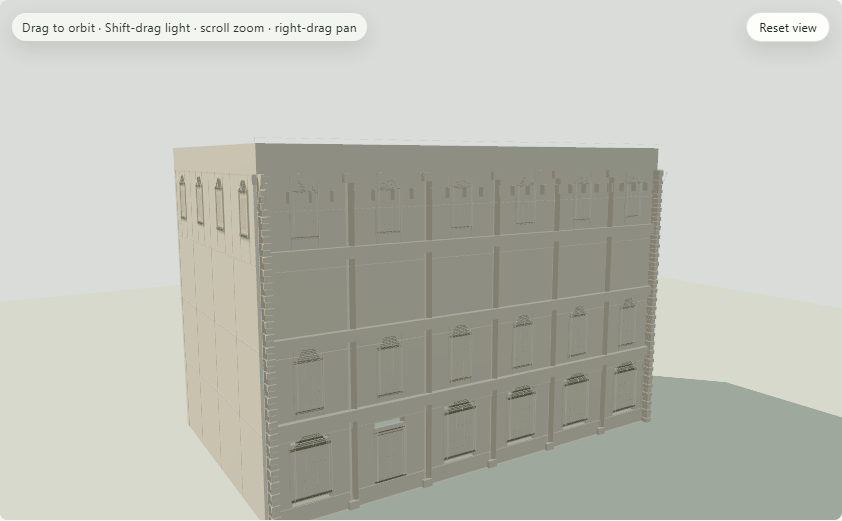
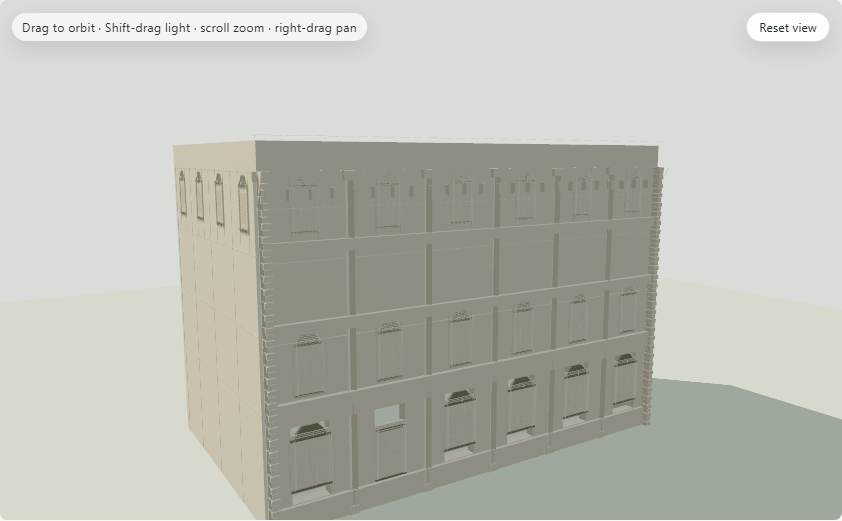
Add photo-driven fidelity plan and V1 commercial base.
Document packets V1–V6 for period clay silhouette work. Raise ground floor to 5.6 m vs ~3.5 m body floors, derive groundFloorRatio, grow storefront glazing, and project bulkhead/lintel/fascia outward so the base band reads at default camera.

diff --git a/src/features/building-family/compiler/buildingCompiler.ts b/src/features/building-family/compiler/buildingCompiler.ts
@@ -602,14 +602,16 @@ function createStorefrontHierarchyMeshPlan(
     const [ox, , oz] = scope.originM;
     const sx = scope.sizeM[0];
     const bayCenterX = ox + sx / 2;
-    // Slightly proud of structural wall face.
-    const zProud = oz - 0.02;
-    const proudDepth = Math.max(0.08, wallDepth * 0.45);
+    // Front outer face is oz; project hierarchy outward (−Z) so clay reads a proud base.
+    const proudDepth = Math.max(0.12, wallDepth * 0.55);
+    const bulkheadZ = oz - proudDepth * 0.55;
+    const lintelZ = oz - proudDepth * 0.65;
+    const fasciaZ = oz - proudDepth * 0.78;
 
     primitives.push(
       buildBoxPrimitive({
-        center: [bayCenterX, sf.bulkheadCenterYM, zProud + proudDepth * 0.35],
-        size: [sx * 0.98, sf.bulkheadHeightM * 0.92, proudDepth]
+        center: [bayCenterX, sf.bulkheadCenterYM, bulkheadZ],
+        size: [sx * 0.98, sf.bulkheadHeightM * 0.95, proudDepth]
       })
     );
     semanticEntries.push({
@@ -621,8 +623,8 @@ function createStorefrontHierarchyMeshPlan(
 
     primitives.push(
       buildBoxPrimitive({
-        center: [bayCenterX, sf.lintelCenterYM, zProud + proudDepth * 0.4],
-        size: [sx * 0.99, sf.lintelHeightM, proudDepth * 1.1]
+        center: [bayCenterX, sf.lintelCenterYM, lintelZ],
+        size: [sx * 0.99, sf.lintelHeightM * 1.05, proudDepth * 1.15]
       })
     );
     semanticEntries.push({
@@ -634,8 +636,8 @@ function createStorefrontHierarchyMeshPlan(
 
     primitives.push(
       buildBoxPrimitive({
-        center: [bayCenterX, sf.lintelCenterYM + sf.lintelHeightM * 0.35, zProud + proudDepth * 0.55],
-        size: [sx + 0.04, sf.lintelHeightM * 0.35, proudDepth * 0.7]
+        center: [bayCenterX, sf.lintelCenterYM + sf.lintelHeightM * 0.4, fasciaZ],
+        size: [sx + 0.06, sf.lintelHeightM * 0.42, proudDepth * 0.85]
       })
     );
     semanticEntries.push({

diff --git a/src/features/building-family/compiler/facadeWallSubdivision.ts b/src/features/building-family/compiler/facadeWallSubdivision.ts
@@ -98,7 +98,8 @@ export function buildFacadeBayScopes(input: SubdivideFacadeWallsInput): FacadeBa
     const floorHeight = spec.massing.floorHeightsM[floor] ?? 3;
     const y0 = floorBaseY(spec, floor);
     const zone: "ground" | "body" = floor === 0 ? "ground" : "body";
-    const depth = wallDepthM + (floor === 0 ? Math.min(0.16, wallDepthM * 0.5) : 0);
+    // Ground wall slightly proud so commercial base mass reads thicker than body (V1).
+    const depth = wallDepthM + (floor === 0 ? Math.min(0.22, wallDepthM * 0.65) : 0);
 
     for (let bay = 0; bay < spec.facade.frontBayCount; bay += 1) {
       const x0 = -spec.massing.widthM / 2 + frontBayWidth * bay;
@@ -108,8 +109,11 @@ export function buildFacadeBayScopes(input: SubdivideFacadeWallsInput): FacadeBa
             ? -spec.massing.depthM / 2
             : spec.massing.depthM / 2 - depth;
         const openingSpec = openingMap.get(openingKey(facade, floor, bay));
-        const defaultOpenW = Math.min(frontBayWidth * 0.62, 1.6);
-        const defaultOpenH = Math.min(floorHeight * (zone === "ground" ? 0.58 : 0.48), 2.6);
+        const defaultOpenW = Math.min(frontBayWidth * (zone === "ground" ? 0.72 : 0.62), zone === "ground" ? 2.2 : 1.6);
+        const defaultOpenH = Math.min(
+          floorHeight * (zone === "ground" ? 0.62 : 0.48),
+          zone === "ground" ? 3.4 : 2.6
+        );
         const hasDefaultOpening =
           !strictOpenings &&
           (defaultOpeningMode === "front-only"

diff --git a/src/features/building-family/core/specNormalizer.ts b/src/features/building-family/core/specNormalizer.ts
@@ -155,6 +155,17 @@ export async function normalizeBuildingSpec(
     stylePack.massing.floorHeightM.ground,
     ...Array.from({ length: floorCount - 1 }, () => typicalFloorHeight)
   ];
+  const totalFloorHeightM = floorHeightsM.reduce((sum, height) => sum + height, 0);
+  // Derived from actual floor stack so ratio matches the taller commercial base (V1).
+  const groundFloorRatio = Number(
+    clampWithDiagnostic(
+      floorHeightsM[0]! / Math.max(0.01, totalFloorHeightM),
+      stylePack.facade.groundFloorRatio.min,
+      stylePack.facade.groundFloorRatio.max,
+      "derived.groundFloorRatio",
+      diagnostics
+    ).toFixed(4)
+  );
   const parapetHeightM = Number(
     (
       stylePack.massing.parapetHeightM.min +
@@ -218,7 +229,7 @@ export async function normalizeBuildingSpec(
     facade: {
       frontBayCount,
       sideBaySpacingM: stylePack.facade.sideBaySpacingM.min,
-      groundFloorRatio: stylePack.facade.groundFloorRatio.min,
+      groundFloorRatio,
       corniceHeightM: stylePack.facade.corniceHeightM.max,
       symmetry: clampWithDiagnostic(
         intent.requested.symmetry ?? stylePack.defaults.symmetry,

diff --git a/src/features/building-family/compiler/storefrontScopeSplit.ts b/src/features/building-family/compiler/storefrontScopeSplit.ts
@@ -24,16 +24,17 @@ export interface StorefrontVerticalSplit {
 
 /**
  * Split a ground floor band into bulkhead / glazing / lintel.
- * Ratios are stable; heights scale with floorHeightM so hash/layout track massing.
+ * Ratios track floorHeightM so a taller commercial base (V1) grows glazing, not just bulkhead.
  */
 export function splitGroundStorefrontVertical(
   floorBaseYM: number,
   floorHeightM: number
 ): StorefrontVerticalSplit {
   const h = Math.max(2.4, floorHeightM);
-  const bulkheadHeightM = Math.min(1.05, Math.max(0.55, h * 0.2));
-  const lintelHeightM = Math.min(0.42, Math.max(0.22, h * 0.09));
-  const glazingHeightM = Math.max(1.2, h - bulkheadHeightM - lintelHeightM);
+  // Tall ground (period commercial): solid base, large glass, thin lintel/fascia.
+  const bulkheadHeightM = Math.min(1.35, Math.max(0.7, h * 0.22));
+  const lintelHeightM = Math.min(0.55, Math.max(0.28, h * 0.1));
+  const glazingHeightM = Math.max(1.6, h - bulkheadHeightM - lintelHeightM);
   const glazingBottomYM = floorBaseYM + bulkheadHeightM;
   const glazingTopYM = glazingBottomYM + glazingHeightM;
   return {

diff --git a/src/features/building-family/tests/specNormalizer.test.ts b/src/features/building-family/tests/specNormalizer.test.ts
@@ -30,6 +30,17 @@ describe("normalizeBuildingSpec", () => {
     expect(first.spec.diagnostics).toHaveLength(0);
   });
 
+  it("makes ground floor clearly taller than typical floors for commercial base (V1)", async () => {
+    const { spec } = await normalizeBuildingSpec(baseIntent, stylePack);
+    const ground = spec.massing.floorHeightsM[0]!;
+    const typical = spec.massing.floorHeightsM[1]!;
+    expect(ground).toBeGreaterThanOrEqual(5.2);
+    expect(typical).toBeLessThanOrEqual(3.8);
+    expect(ground / typical).toBeGreaterThanOrEqual(1.45);
+    const total = spec.massing.floorHeightsM.reduce((sum, h) => sum + h, 0);
+    expect(spec.facade.groundFloorRatio).toBeCloseTo(ground / total, 3);
+  });
+
   it("keeps family-scoped fields stable when only the building seed changes", async () => {
     const first = await normalizeBuildingSpec(baseIntent, stylePack);
     const second = await normalizeBuildingSpec(

diff --git a/src/features/building-family/tests/storefrontScopeSplit.test.ts b/src/features/building-family/tests/storefrontScopeSplit.test.ts
@@ -53,6 +53,14 @@ describe("storefrontScopeSplit", () => {
     expect(split.bulkheadHeightM + split.glazingHeightM + split.lintelHeightM).toBeCloseTo(4.2, 5);
   });
 
+  it("grows glazing on a tall commercial base so the ground band dominates (V1)", () => {
+    const tall = splitGroundStorefrontVertical(0, 5.6);
+    const short = splitGroundStorefrontVertical(0, 3.6);
+    expect(tall.glazingHeightM).toBeGreaterThan(short.glazingHeightM + 0.8);
+    expect(tall.glazingHeightM).toBeGreaterThan(tall.bulkheadHeightM * 2);
+    expect(tall.bulkheadHeightM + tall.glazingHeightM + tall.lintelHeightM).toBeCloseTo(5.6, 5);
+  });
+
   it("clamps door/window openings into the glazing band", () => {
     const split = splitGroundStorefrontVertical(0, 4.2);
     const door = clampOpeningToGlazingBand({ heightM: 3.5, centerYM: 2 }, split, "door");

diff --git a/src/features/building-family/compiler/profiledTrimGeometry.ts b/src/features/building-family/compiler/profiledTrimGeometry.ts
@@ -209,7 +209,9 @@ export function buildVerticalPilasterPrimitives(
 
 /** Continuous ground-floor water-table / plinth along front facade. */
 export function buildBasePlinthPrimitives(spec: BuildingFamilySpec): PrimitiveGeometry[] {
-  const height = Math.min(0.7, (spec.massing.floorHeightsM[0] ?? 4) * 0.16);
+  // Scale with commercial base so plinth reads as part of the tall ground band (V1).
+  const groundH = spec.massing.floorHeightsM[0] ?? 4;
+  const height = Math.min(0.95, Math.max(0.55, groundH * 0.14));
   const profile = densifyProfile(scaleProfileToHeight(late19cBasePlinthProfile, height), 2);
   const frontZ = frontFacadeExteriorZM(spec);
   const center: Vec3 = [0, height / 2, frontZ];

diff --git a/docs/plans/photo-driven-visual-fidelity.md b/docs/plans/photo-driven-visual-fidelity.md
@@ -1,0 +1,142 @@
+# Photo-Driven Visual Fidelity Packets
+
+**Status:** active — V1 (commercial base) landed 2026-07-13; next V2  
+**Date:** 2026-07-13  
+**Parent tracks:** G1–G8 geometry quality (exited), kit-grammar roadmap, Period Ref Lab  
+**Primary refs:** `docs/ref/` + `docs/research/period-reference/` via `#room=periodRef`  
+**Delivery mode:** one **packet** = one reviewable PR-sized milestone with a **visible clay delta** against a named photo ref.
+
+---
+
+## 1. Honest goal
+
+Move kit-mode Assembly Hall output from **readable modular box** toward **period-believable commercial/apartment silhouette in clay**, judged by side-by-side photo compare—not by IR checklist alone.
+
+This is **not** photoreal materials, photo→mesh, or Blender GN parity. Textured brick is a later packet after clay silhouette sells.
+
+**Exit for this plan (V6):** On default demo seed, clay 3/4 front + Shift-raking light, a non-author can name ground / body / cornice bands and punched openings without prompting—and Marx / Vanderbilt comparison notes move several rows from partial toward pass.
+
+---
+
+## 2. What already landed (do not re-do)
+
+| Item | Role |
+|---|---|
+| G1–G8 | Split plan, storefront scopes, expanders, clay gate |
+| Period Ref Lab | Catalog, `/period-ref` serve, rubric, comparison notes |
+| P0 | Front trim projects outward (cornice/belt/quoin) |
+| P1 | Opening instances oriented to facade normals; throat into wall |
+| Visual QA packet | Automated IR evidence (floor, not ceiling) |
+
+**Lesson:** Orientation/correctness packets without **massing amplitude** feel the same in the product. Prefer packets that change silhouette in 10 seconds.
+
+---
+
+## 3. Judging protocol (every packet)
+
+1. **Primary ref** named in the packet (default: Marx Grocery or Vanderbilt).  
+2. Kit mode, clay, default seeds unless packet says otherwise.  
+3. Capture: `node scripts/capture-period-compare.mjs` (or Assembly Hall screenshot).  
+4. Shift-rake light once; if the claim needs forensics to see, the packet is too small.  
+5. Update comparison notes under `docs/ref/comparisons/…`.  
+6. Automated tests cover pure geometry/spec; photos stay human-scored.
+
+---
+
+## 4. Packet sequence
+
+| ID | Packet | Primary ref | Visible exit (clay) | Depends |
+|---|---|---|---|---|
+| **V1** | **Commercial base band** | Vanderbilt, Marx | Ground floor height clearly > upper floors; bulkhead/glazing/lintel read as a base system | P0–P1 |
+| **V2** | **Cornice crown weight** | Marx, Columbus cornice detail | Skyline sells multi-layer overhang without zoom | V1 |
+| **V3** | **Punched opening amplitude** | Marx lintels, Columbus | Throat dark under rake; lintel hood as shelf | V1 |
+| **V4** | **Horizontal body hierarchy** | Marx, Boykin | Clear belt/spandrel rhythm between base and cornice | V1–V3 |
+| **V5** | **Material scale pass** | Any brick ref | Brick/tile scale coherent at default camera (textured) | V4 |
+| **V6** | **Evidence close-out** | All primary | Period notes re-scored; Visual QA known-gaps updated; kit roadmap unblocked for layout | V2–V5 |
+
+Optional later (not this plan): corner bays/oriels, arched ground arcade family, multi-lot street wall (Phase F).
+
+---
+
+## 5. Packet details
+
+### V1 — Commercial base band (this milestone)
+
+**Gap:** Ground ≈ upper floor height; storefront hierarchy exists but does not dominate silhouette.  
+**Levers:**
+
+- Style-pack ground floor height vs typical (target ~1.45–1.6×).  
+- `groundFloorRatio` derived / consistent with heights.  
+- Storefront vertical split ratios for tall ground (bulkhead + tall glazing + lintel).  
+- Proud storefront hierarchy on exterior face (same outward convention as P0).  
+- Plinth / ground wall depth already slightly thicker—keep, don’t replace structure with mesh kits.
+
+**Out of scope:** New preassembled storefront meshes; WFC; remote materials.
+
+**Validation:**
+
+```powershell
+npm.cmd run test -- storefrontScopeSplit specNormalizer facadeSplitPlan buildingCompiler
+npm.cmd run typecheck
+```
+
+Clay: ground band visibly taller than floor above at default camera (no zoom).
+
+### V2 — Cornice crown weight
+
+**Gap:** P0 made cornice present; amplitude still light vs Marx.  
+**Levers:** Profile `d` scale, corniceHeightM, bracket size—not new mesh libraries.  
+**Exit:** 3/4 clay skyline reads “has a cornice” before openings are inspected.
+
+### V3 — Punched opening amplitude
+
+**Gap:** P1 fixed orientation; depth still shallow vs brick refs.  
+**Levers:** Pocket depth fractions, frame recess, hood projection; keep slot binding 1:1.  
+**Exit:** Raking light shows interior throat without hunting.
+
+### V4 — Horizontal body hierarchy
+
+**Gap:** Floors exist; body still stamp-like.  
+**Levers:** Belt projection, spandrel pride, optional lintel-at-opening-head strips.  
+**Exit:** Three horizontal shadow systems: base top, mid belts, cornice.
+
+### V5 — Material scale
+
+**Gap:** Textured mode not period-checked.  
+**Levers:** Art-kit metersPerTile, atlas roles—not structure regen.  
+**Exit:** Brick course scale vs human-height openings feels building-sized.
+
+### V6 — Evidence close-out
+
+Re-score Marx + Vanderbilt packets; archive captures; link from kit-grammar Phase C visual QA gate; park this plan as exited.
+
+---
+
+## 6. Mapping to parent roadmaps
+
+| Parent | Relation |
+|---|---|
+| G8 clay gate | Floor for “composed”; V packets raise period likeness |
+| Kit Phase C4 Visual QA | Continues; period notes are complementary evidence |
+| M12 WFC | Still blocked until silhouette packets V1–V3 land (layout on weak mass is waste) |
+| UTDG / materials | V5 is the consumer-facing gate; structure stays forbidden |
+
+---
+
+## 7. Status log
+
+| Date | Event |
+|---|---|
+| 2026-07-12 | Period Ref Lab + first-pass FINDINGS (P0–P4 backlog) |
+| 2026-07-13 | P0 outward trim, P1 opening orientation |
+| 2026-07-13 | This plan; **V1 commercial base** landed (5.6 m ground vs ~3.5 m body) |
+
+---
+
+## 8. Non-goals
+
+- Photoreal rendering path  
+- Photo import / reconstruction  
+- Preassembled facade libraries as truth  
+- Block/street generation (parent Phase F)  
+- Combining V packets in one PR without explicit ask  

diff --git a/docs/ref/comparisons/2026-07-12-first-pass/FINDINGS.md b/docs/ref/comparisons/2026-07-12-first-pass/FINDINGS.md
@@ -52,13 +52,12 @@ Silhouette + trim layering were **fail** because front moldings used `facadeSign
 **Exit met:** Clay re-capture shows frames/hoods on the wall plane with glass/throat reading inward (see `assembly-hall-clay-default.png` / orbit).  
 **Residual:** Still not as deep as Marx punched brick; raking Shift-light capture would make the throat clearer. Not a placement bug anymore.
 
-### P2 — Commercial base band
+### P2 / V1 — Commercial base band — **done 2026-07-13**
 
 **Refs:** Vanderbilt red base, Marx storefront belt  
-**Gap:** Ground floor is only slightly different from upper floors.  
-**Direction:** Taller ground scope + larger ground openings already partially in storefront grammar — push height ratio and arcade readability in clay.  
-**Exit:** Ground band height clearly != upper floor module height in silhouette.
-
+**Plan:** `docs/plans/photo-driven-visual-fidelity.md` (packet V1)  
+**Fix:** Style-pack ground **5.6 m** vs typical **~3.5 m** (~1.5×); derived `groundFloorRatio`; taller storefront glazing split; proud outward bulkhead/lintel/fascia; thicker ground wall depth; taller plinth.  
+**Exit:** Ground band clearly taller than floor above at default clay camera — intended as a 10-second silhouette win (not a forensic lighting check).
 ### P3 — Lintel / belt courses as horizontal trim layers
 
 **Refs:** Marx stone lintels/sills, Columbus window hoods  
@@ -92,6 +91,6 @@ Stage metrics from page capture (illustrative): facade 4 objects, openings 5, tr
 
 1. ~~P0 cornice outward placement~~ **landed**  
 2. ~~P1 punched opening orientation + throat~~ **landed**  
-3. **P2** taller commercial base band (next)  
-4. Optional: Shift-drag raking light frames in `capture-period-compare.mjs`  
-5. Re-score Vanderbilt packet after P2  
+3. ~~P2 / V1 commercial base band~~ **landed**  
+4. **V2** cornice crown weight (next — `docs/plans/photo-driven-visual-fidelity.md`)  
+5. Optional: Shift-drag raking frames in capture script  

diff --git a/docs/architecture/dynamic-building-family-integration.md b/docs/architecture/dynamic-building-family-integration.md
@@ -1,6 +1,6 @@
 # Dynamic Building Family Integration Map
 
-**Status:** Milestone 8 Slice 2–8 through visual QA packet export (M1–M11; Phase C complete); period photo reference lab (`#room=periodRef`) for manual clay-vs-photo compare
+**Status:** Milestone 8 Slice 2–8 through visual QA packet export (M1–M11; Phase C complete); period photo reference lab (`#room=periodRef`); photo-driven visual fidelity plan active (V1 commercial base)
 **Plan source:** `docs/plans/dynamic-building-family.md`
 **Supplemental art-fidelity plan:** `docs/superpowers/plans/2026-06-25-dynamic-building-family-art-fidelity-bridge.md`
 **Post-MVP kit → WFC → UTDG → block plan:** `docs/plans/kit-grammar-wfc-utdg-block.md`

diff --git a/docs/ref/README.md b/docs/ref/README.md
@@ -49,8 +49,9 @@ Clay vs photo scores and ranked geometry follow-ups:
 - `docs/ref/comparisons/2026-07-12-first-pass/FINDINGS.md`
 - Capture script: `node scripts/capture-period-compare.mjs`
 
-**Photo-driven fixes so far:** P0 cornice outward placement · P1 opening facade orientation + punched throat.  
-**Next:** P2 taller commercial base band (`FINDINGS.md`).
+**Photo-driven plan:** `docs/plans/photo-driven-visual-fidelity.md` (packets V1–V6).  
+**Landed:** P0 outward trim · P1 opening orientation · **V1 commercial base**.  
+**Next:** V2 cornice crown weight.
 
 ## Related
 
